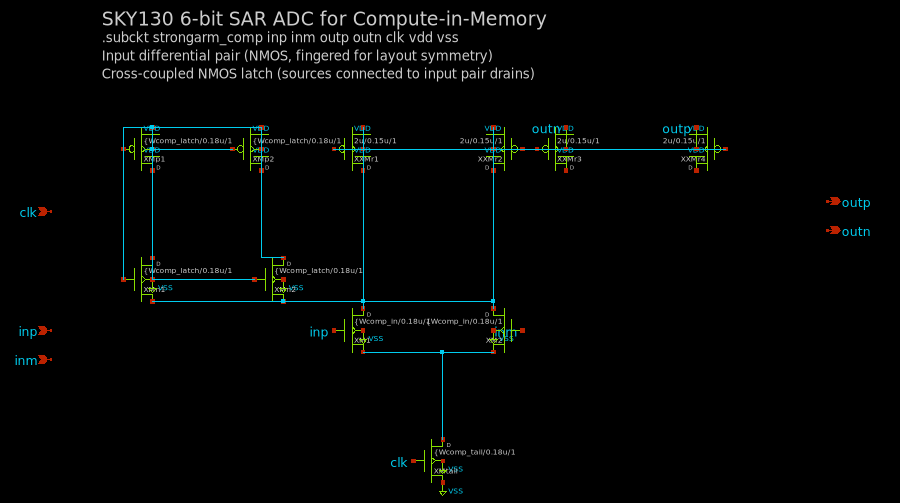
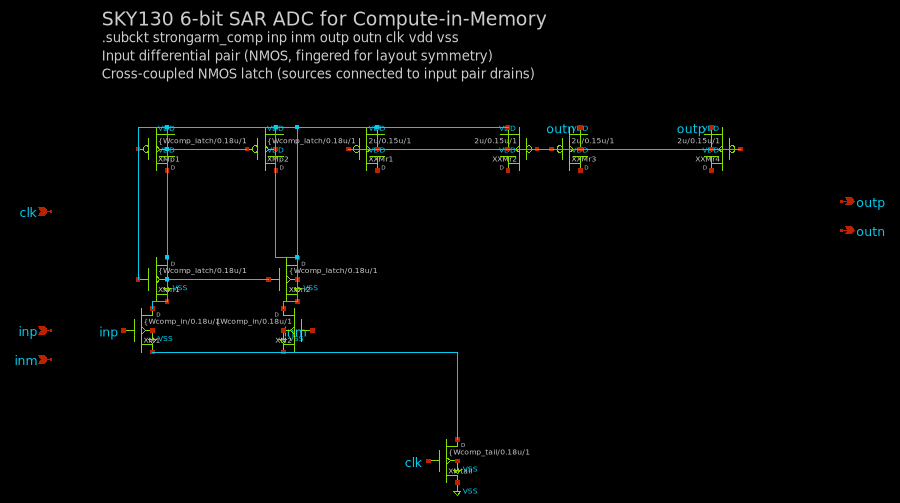
Fix latch-to-diff-pair alignment in StrongARM comparator
- Keep latch blocks in group for stacking detection (was removing them)
- Skip re-placement of already-placed latch blocks in group loop
- Bottom NMOS blocks now align below their stacking partner (latch)
- ADC: diff pair centered below cross-coupled latch, 0 crossings
- Bitcell: improved latch stacking with proper hierarchy

diff --git a/src/placer.py b/src/placer.py
@@ -558,10 +558,12 @@ def place_circuit(circuit: Circuit) -> PlacedCircuit:
                             x=_snap(latch_x_center), y=_snap(dp_y + V_SPACING))
                         context_placed.add(tail)
 
-    # Remove latch blocks from the blocks list to avoid double-placement
+    # Keep latch blocks in the list for grouping/stacking detection,
+    # but track them to skip re-placement
+    already_placed_blocks = set()
     if latch_placed:
-        blocks = [b for b in blocks if not any(c in latch_placed for c in b.components)]
-        # Also remove diff pairs we already placed
+        already_placed_blocks.update(latch_placed)
+        # Also skip diff pairs we already placed
         blocks = [b for b in blocks if not any(c in context_placed for c in b.components)]
         block_comps -= latch_placed
 
@@ -606,9 +608,11 @@ def place_circuit(circuit: Circuit) -> PlacedCircuit:
             top_n = []
             bottom_n = n_blocks
 
-        # Place PMOS blocks at PMOS_Y
+        # Place PMOS blocks at PMOS_Y (skip already-placed latch blocks)
         px = cur_x
         for block in p_blocks:
+            if any(c in already_placed_blocks for c in block.components):
+                continue  # Already placed by Stage 0.5
             _place_block(result, block, px, PMOS_Y)
             # Single-column blocks need less space than diff pairs
             if block.type in ("inverter", "tgate"):
@@ -636,7 +640,8 @@ def place_circuit(circuit: Circuit) -> PlacedCircuit:
                         if placed_xs:
                             aligned_nx = int(sum(placed_xs) / len(placed_xs))
                             break
-            _place_block(result, block, aligned_nx if aligned_nx else nx, NMOS_Y)
+            effective_nx = aligned_nx if aligned_nx else nx
+            _place_block(result, block, effective_nx, NMOS_Y)
 
             # Place tail source below NMOS diff pair
             if block.type.startswith("diff_pair_n"):
@@ -662,6 +667,8 @@ def place_circuit(circuit: Circuit) -> PlacedCircuit:
         # Track the rightmost x of placed top blocks to avoid overlap
         top_right_x = cur_x - H_SPACING
         for block in top_n:
+            if any(c in already_placed_blocks for c in block.components):
+                continue  # Already placed by Stage 0.5
             block_sources = set()
             for cn in block.components:
                 block_sources.add(circuit.components[cn].pins["source"])
